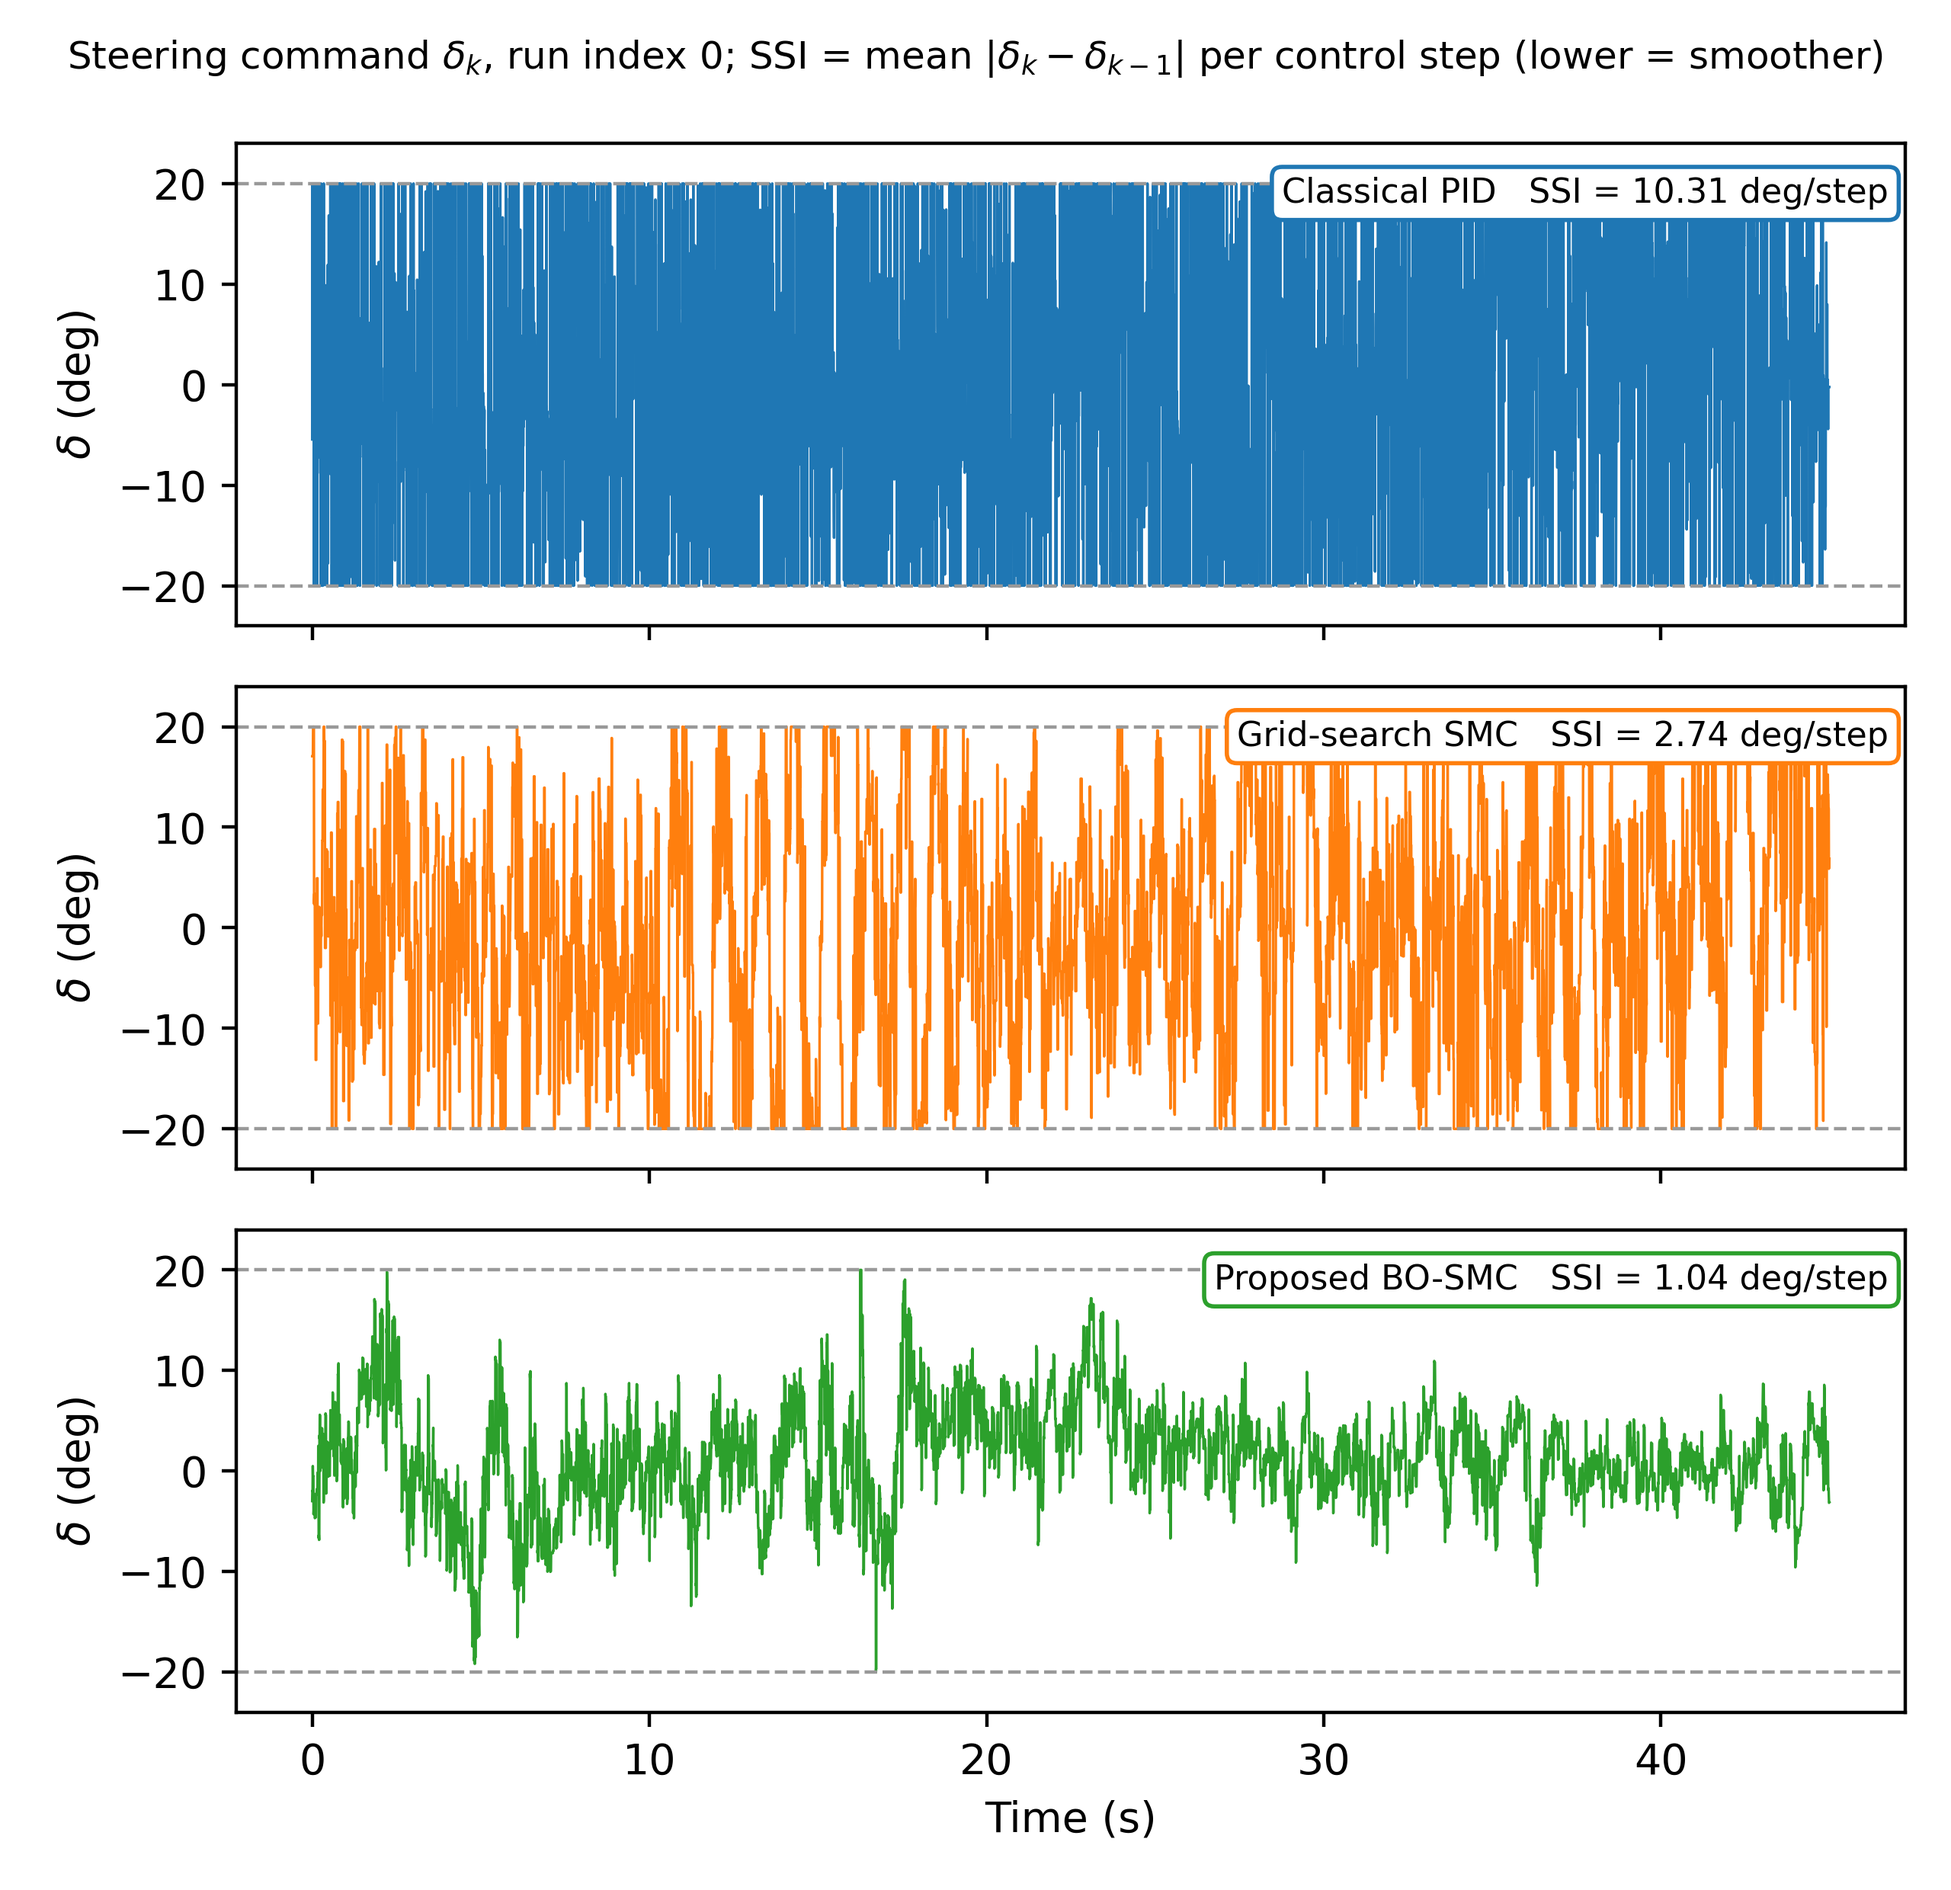
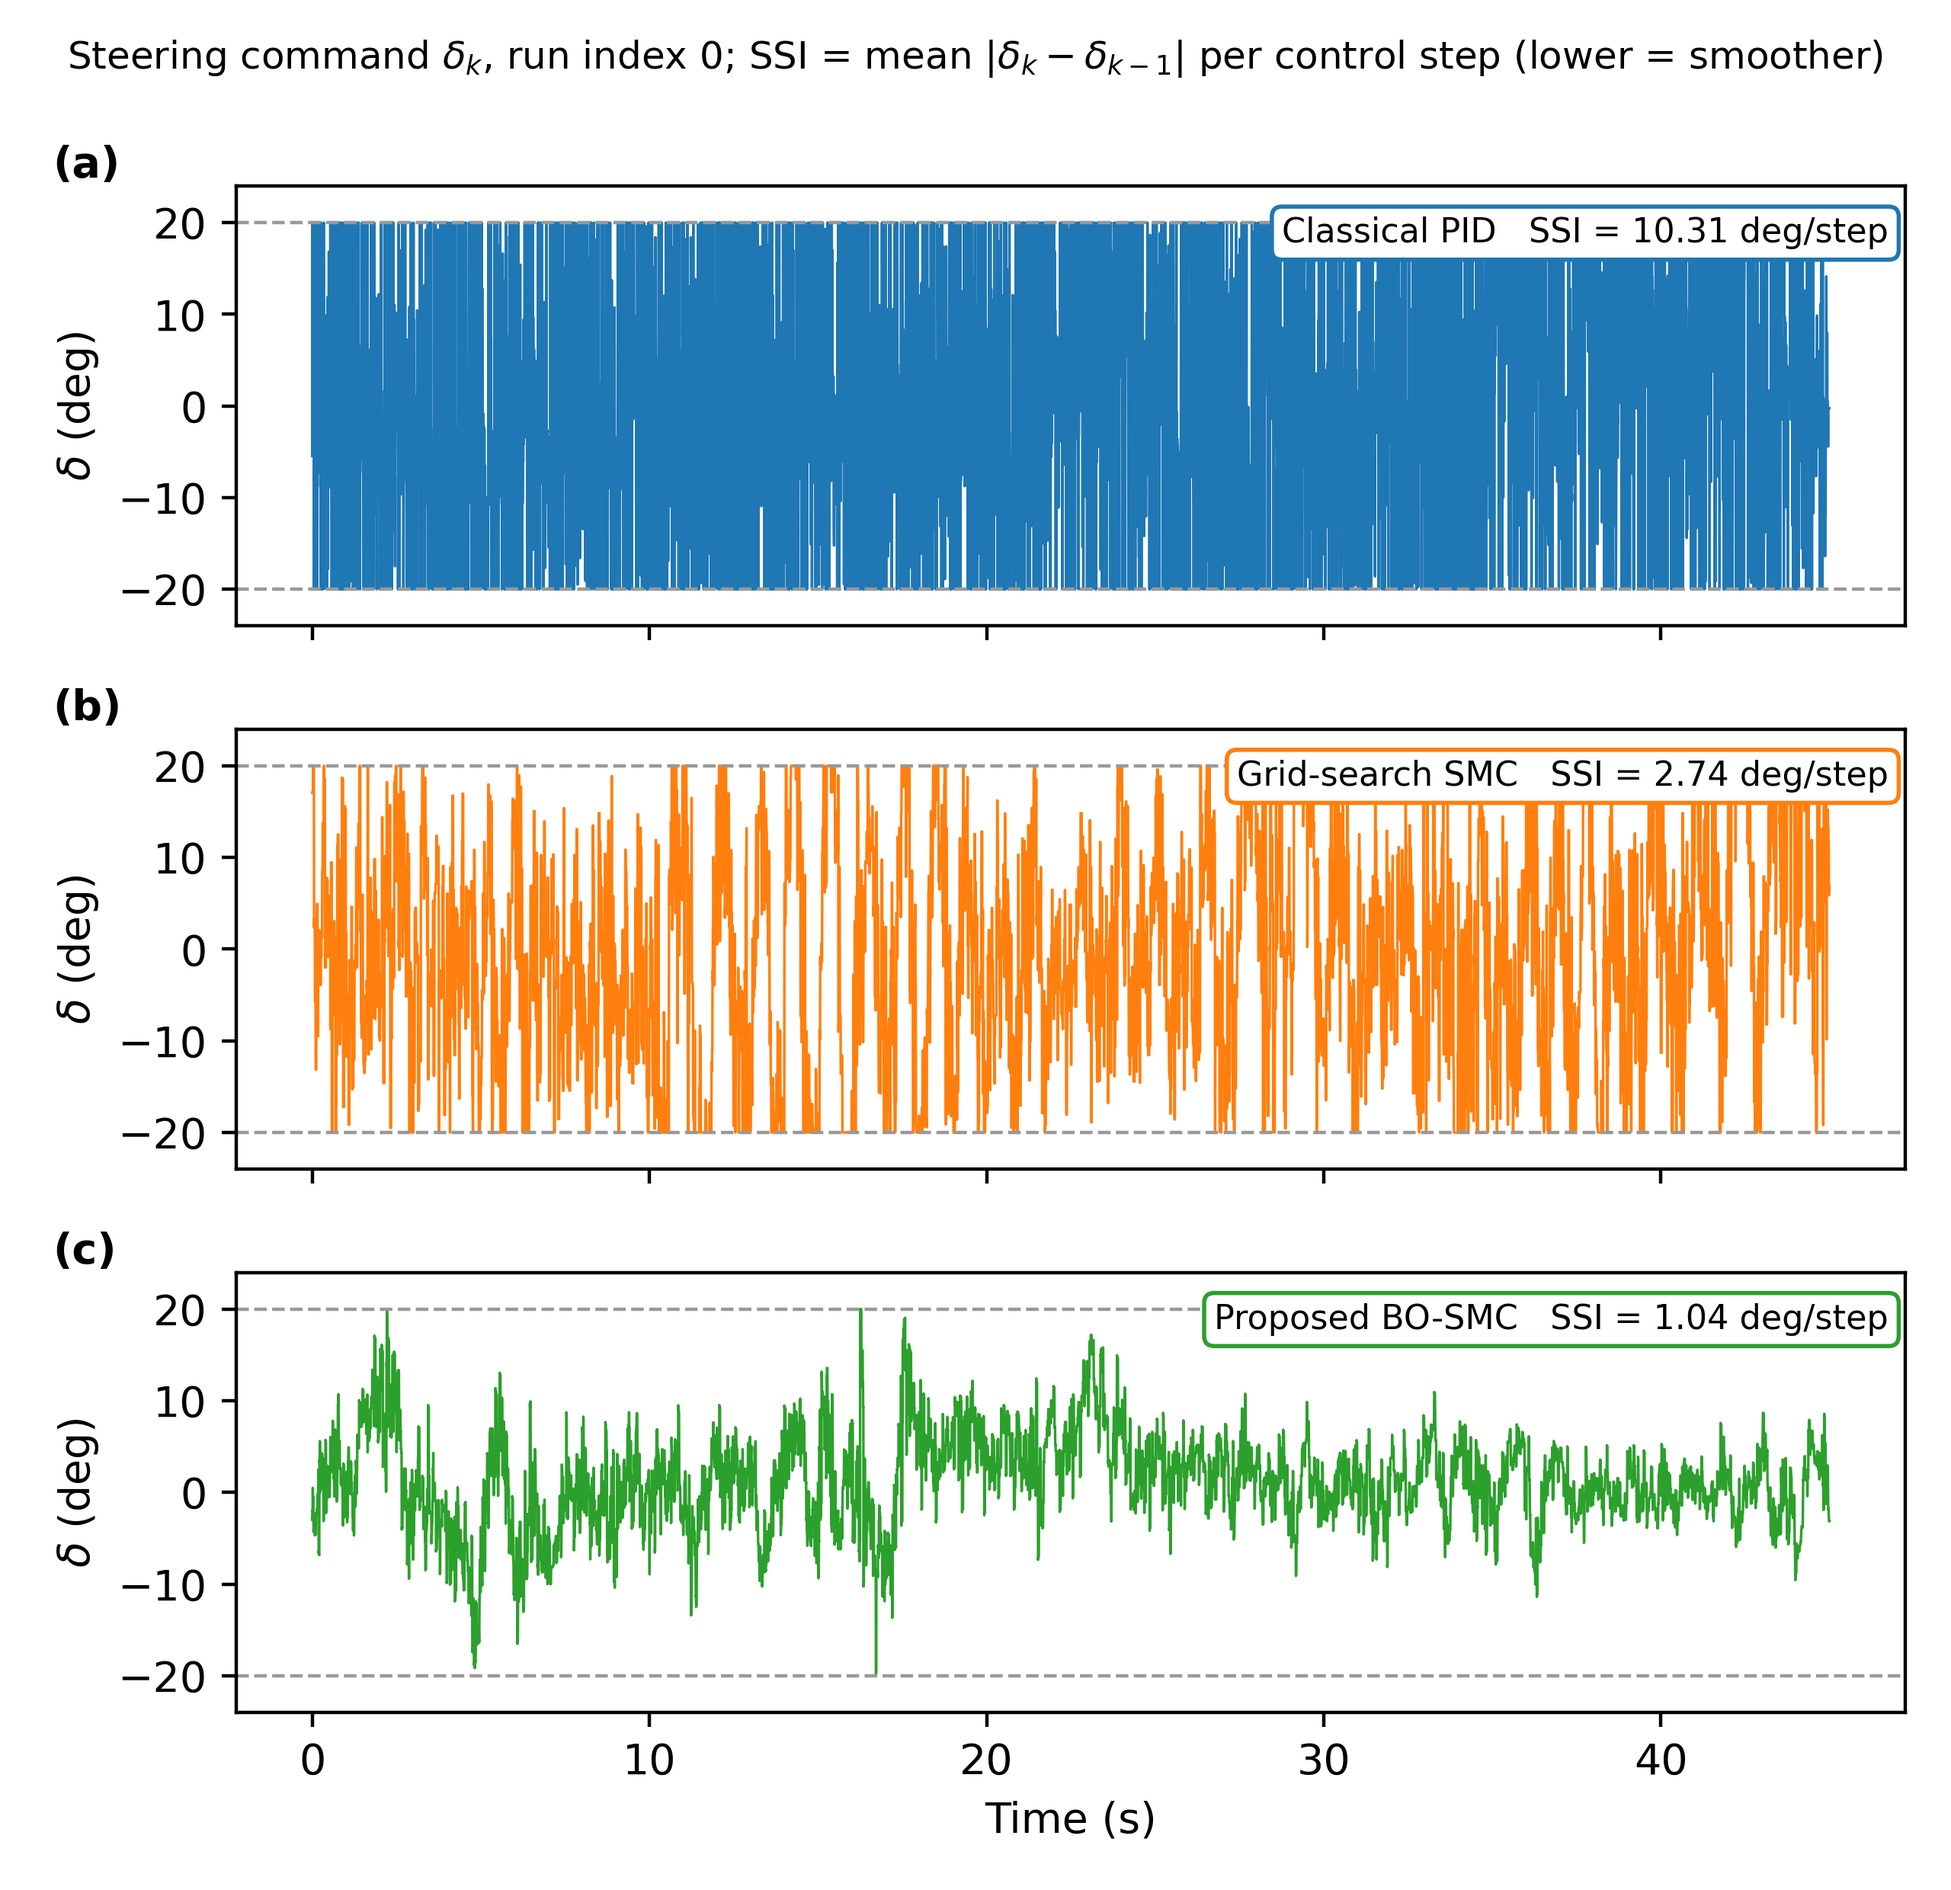
Label Figure 3 panels, quantify the effect of the fixed phi_v, document units and exclusion rules
- Figure 3: panels labelled (a) Classical PID, (b) Grid-search SMC, (c) Proposed BO-SMC
- s2_gains_regime.py: effect of the fixed phi_v of the grid-search SMC on the integer speed
  command (output tables/grid_phi_v_effect.csv)
- README: units of the controller gains, switching functions, inherited and fixed settings,
  and the three exclusion variants of the robustness experiment with their scripts and outputs

diff --git a/revision_R1/analysis/s2_gains_regime.py b/revision_R1/analysis/s2_gains_regime.py
@@ -56,6 +56,7 @@ def run():
     md.append("\nλv, ηv, φv are constant over all 27 grid evaluations → not searched; copied from the manual "
               "SMC configuration (λv = 70, ηv = 0.001, φv = 1). With ηv = 0.001 the longitudinal switching term "
               "is ≤ 0.001 (inert), so the grid controller's speed loop is effectively the manual one.")
+    md.append(_phi_v_effect())
 
     grows = []
     ab = K.load("ablation_results.json")["variants"]
@@ -150,6 +151,27 @@ def run():
 
     md.append(_sensitivity(refs))
     return "\n".join(md)
+
+
+def _phi_v_effect():
+    """Grid-search SMC speed loop: u_v = λv e_v + ηv sat(s_v/φv), sent as int(). With ηv = 0.001 the
+    switching term is bounded by 0.001 for any φv; count the steps of nominal run 0 in which it changes
+    the integer command, for the fixed φv = 1 and for the ends of the φv search range."""
+    log = K.load_log("compare_GridSMC_seed0.json")
+    e, s = np.array(log["speed_err"], float), np.array(log["s_speed"], float)
+    lam, eta = 70.0, 0.001
+    base = np.trunc(np.clip(lam * e, 0, 150))
+    out = []
+    for phi in (1.0, 50.0):
+        cmd = np.trunc(np.clip(lam * e + eta * np.clip(s / phi, -1, 1), 0, 150))
+        out.append((phi, int(np.sum(cmd != base)), int(np.max(np.abs(cmd - base)))))
+    logged = np.array(log["speed_cmd"], float)
+    match = np.mean(logged == np.trunc(np.clip(lam * e + eta * np.clip(s, -1, 1), 0, 150)))
+    rows = [[f"{phi:g}", f"{n} of {len(e)}", f"{d}"] for phi, n, d in out]
+    K.write_csv("grid_phi_v_effect.csv", ["phi_v", "steps_changed", "max_change"], rows)
+    return ("\nEffect of the fixed φv on the grid-search speed command (nominal run 0, ηv = 0.001, integer command): "
+            + "; ".join(f"φv = {phi:g}: command changed in {n} of {len(e)} steps (max {d} unit)" for phi, n, d in out)
+            + f"; logged commands reproduced by the model in {100 * match:.1f}% of steps.")
 
 
 def _sensitivity(refs):

diff --git a/revision_R1/analysis/s6_fig3.py b/revision_R1/analysis/s6_fig3.py
@@ -22,7 +22,9 @@ def _plot(methods, fname):
     col = {"PID": "#1f77b4", "GridSMC": "#ff7f0e", "PSO_SMC": "#9467bd", "BO_SMC": "#2ca02c"}
     fig, axes = plt.subplots(len(methods), 1, figsize=(6.4, 6.2), sharex=True)
     info = []
-    for ax, m in zip(axes, methods):
+    for k, (ax, m) in enumerate(zip(axes, methods)):
+        ax.text(-0.11, 1.0, f"({'abc'[k]})", transform=ax.transAxes, ha="left", va="bottom",
+                fontsize=10, fontweight="bold")
         lg = K.load_log(f"compare_{m}_seed0.json")
         t, a = np.array(lg["t"]), np.array(lg["angle"])
         s = _ssi(a)

diff --git a/README.md b/README.md
@@ -28,9 +28,9 @@ Values are reported as mean (standard deviation), as in the paper, but with more
 | Paper | Output files (`revision_R1/output/`) |
 |---|---|
 | Table 2, Figure 2 (matched-budget optimizer study) | `tables/table2_optimizers.csv`, `tables/table2_tests.csv`, `figures/fig2_convergence_rev.png` |
-| Table 3 (deployed gains) | `tables/gains_deployed.csv` |
+| Table 3 (deployed gains) | `tables/gains_deployed.csv`, `tables/grid_phi_v_effect.csv` (effect of the fixed φv of the grid-search SMC) |
 | Section 3.3 (operating regime, objective sensitivity) | `tables/regime_all_bo_runs.csv`, `tables/bo_seeds_gains.csv`, `tables/sensitivity_offline.csv` |
-| Table 4, Figure 3 (nominal comparison) | `tables/table4_nominal_paper.csv`, `tables/table4_tests_paper.csv` (all 20 paired tests with 95% CIs), `figures/fig3_steering_rev_grid.png` |
+| Table 4, Figure 3 (nominal comparison) | `tables/table4_nominal_paper.csv`, `tables/table4_tests_paper.csv` (all 20 paired tests with 95% CIs), `figures/fig3_steering_rev_grid.png` (panels (a) Classical PID, (b) Grid-search SMC, (c) Proposed BO-SMC) |
 | Table 5 (robustness) | `tables/table5_variantA.csv` (as reported), `table5_variantB.csv` (no exclusion), `table5_variantC.csv` (balanced exclusion), `table5_tests.csv` |
 | Table 6 (component analysis) | `tables/table6_ablation.csv`, `tables/table6_tests.csv` |
 | All numbers quoted in the text | `REPORT.md` |
@@ -46,6 +46,42 @@ protocol for testing without the simulator. See `journal_cmc/QUICKSTART.md` and 
 
 Software used for the paper: Python 3.10.6, OpenCV 4.11.0, NumPy 1.26.4, SciPy 1.15.3, PyTorch 2.7.1 (CUDA 12.6),
 BoTorch 0.16.1, GPyTorch 1.15.2, PySwarms 1.3.0 (`journal_cmc/requirements_journal.txt`).
+
+## Units and fixed settings of the controller gains
+
+The gains are numerical coefficients acting on the raw signals of the implementation (no physical
+normalization): lateral error `e`, its increment and the steering sliding variable in px; speed error,
+its increment and the speed sliding variable in km/h; steering command in deg; speed command in the
+integer units of the simulator (0 to 150). Hence `phi_a` is in px, `phi_v` in km/h, `eta_a` in deg,
+`eta_v` in speed-command units, and `lambda_a`, `lambda_v` are scalar coefficients. Only the optimizers
+map the gains linearly from the search bounds (`journal_cmc/config.py`, `SEARCH_SPACE`) to the unit cube.
+
+Switching functions (`journal_cmc/controller.py`): the manual SMC uses `s/(|s|+1e-3)` in both channels
+(no width parameter); the grid-search and BO-tuned SMC use `sat(s/phi)` in both channels.
+
+The grid-search SMC searched only the 3 steering gains. Its longitudinal gains `lambda_v = 70` and
+`eta_v = 0.001` are inherited from the manual SMC, and `phi_v = 1` is a fixed value taken from the
+configuration of the manual SMC (which does not use it); none of the three was searched. Because the
+switching term is bounded by `eta_v = 0.001` for any `phi_v` and the speed command is truncated to an
+integer, `phi_v` has a negligible but nonzero effect: in nominal run 0 the term changed the speed command
+in 1 of 7718 steps, by one unit, for `phi_v = 1` and for `phi_v = 50`
+(`revision_R1/analysis/s2_gains_regime.py`, function `_phi_v_effect`; output `tables/grid_phi_v_effect.csv`).
+
+## Exclusion rules of the robustness experiment (Table 5)
+
+An episode is regarded as a simulator stall, and excluded, when its lane-detection rate is below 0.1
+(`STALL_DETECTION` in `revision_R1/analysis/common.py`). Six of the 200 robustness episodes meet this
+criterion (listed in `REPORT.md`, section S4). Three variants are computed:
+
+| Variant | Rule | Output |
+|---|---|---|
+| A (as reported in Table 5) | each stalled episode is excluded from the mean of its own controller; each paired test uses only the run indices valid for both controllers of the pair | `tables/table5_variantA.csv`, `tables/table5_tests.csv` |
+| B (no exclusion) | all 10 runs are kept | `tables/table5_variantB.csv` |
+| C (balanced exclusion) | for each condition, a run index that meets the criterion for any controller is excluded for all controllers (nominal: runs 6 and 7, n = 8; blur: run 5, n = 9) | `tables/table5_variantC.csv` |
+
+Variants A and C are implemented in `revision_R1/analysis/s4_robustness.py` (function `cell`), and the
+Holm-adjusted paired tests of variants B and C in `revision_R1/analysis/s7_text_stats.py`
+(function `_robustness_variants`); their results are listed in `REPORT.md`.
 
 ## Notes on the data
 

diff --git a/revision_R1/output/REPORT.md b/revision_R1/output/REPORT.md
@@ -1,5 +1,5 @@
 # Revision R1 — analysis report (CMC ID 92446)
-Generated: 2026-10-02 18:41:37 · Python 3.10.6 · numpy 1.26.4 · scipy 1.15.3 · matplotlib 3.10.9
+Generated: 2026-10-27 11:33:04 · Python 3.10.6 · numpy 1.26.4 · scipy 1.15.3 · matplotlib 3.10.9
 Data folder: journal_cmc/results (relative to the repository root)
 
 
@@ -63,6 +63,8 @@ PSO invalid evaluations: 67; their J values: [7.7436, 13.505] (stalled simulator
 lambda_a: [0.01, 0.505, 1.0]; eta_a: [0.5, 10.25, 20.0]; phi_a: [1.0, 40.5, 80.0]; lambda_v: [70.0]; eta_v: [0.001]; phi_v: [1.0]
 
 λv, ηv, φv are constant over all 27 grid evaluations → not searched; copied from the manual SMC configuration (λv = 70, ηv = 0.001, φv = 1). With ηv = 0.001 the longitudinal switching term is ≤ 0.001 (inert), so the grid controller's speed loop is effectively the manual one.
+
+Effect of the fixed φv on the grid-search speed command (nominal run 0, ηv = 0.001, integer command): φv = 1: command changed in 1 of 7718 steps (max 1 unit); φv = 50: command changed in 1 of 7718 steps (max 1 unit); logged commands reproduced by the model in 100.0% of steps.
 
 ### 2.3 Deployed gains
 
